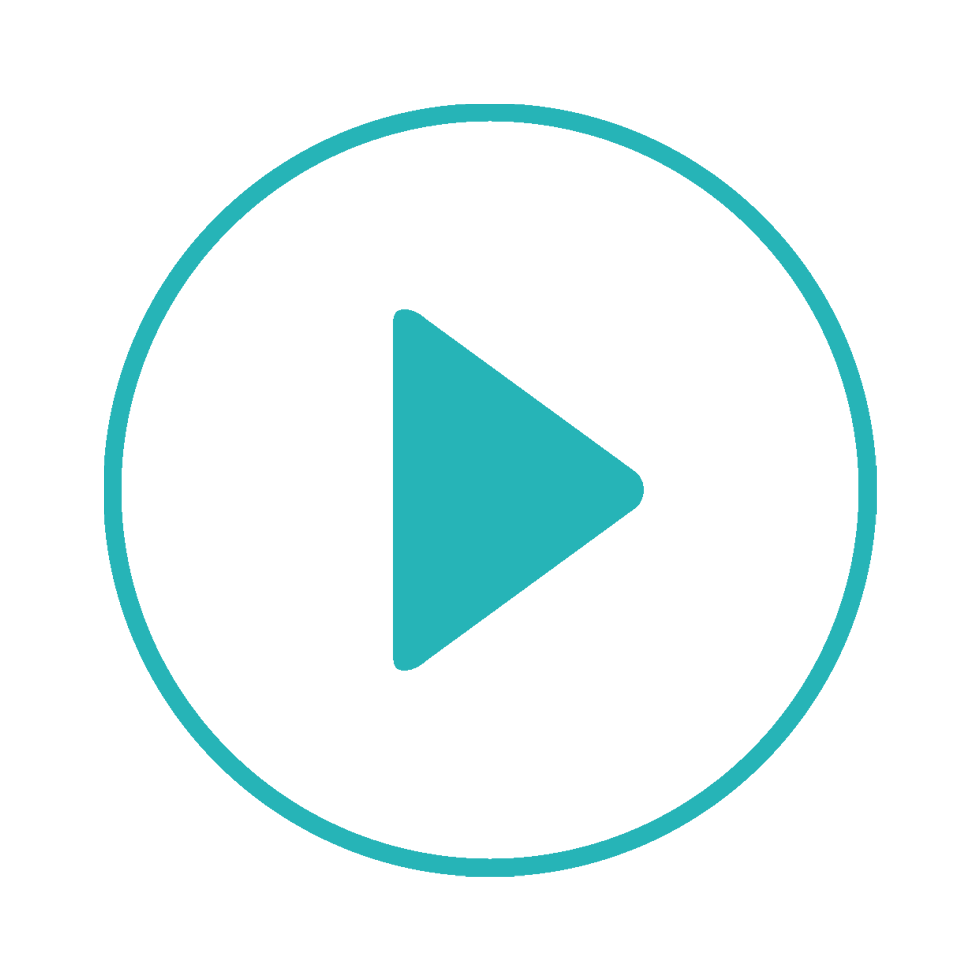
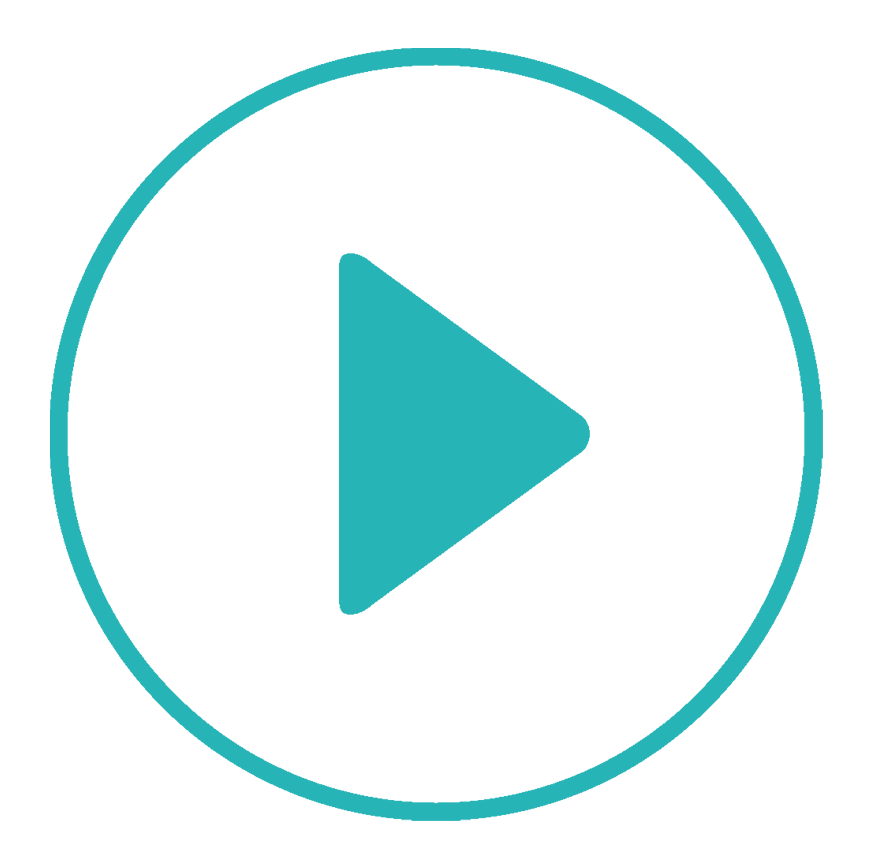
did animation

Changed region(s): [[0.031, 0.0311, 0.9621, 0.9643], [0.3724, 0.28, 0.6828, 0.7154]]

diff --git a/src/style/elements/_btn.scss b/src/style/elements/_btn.scss
@@ -1,0 +1,89 @@
+.bg-extra-dark-gray {
+  background-color: #fff;
+}
+
+.opacity-7 {
+  opacity: 0.7;
+}
+
+.video-icon-box > span {
+  display: inline-flex;
+  flex-flow: row wrap;
+  align-items: center;
+  justify-content: center;
+}
+
+.video-icon-box .video-icon {
+  position: relative;
+  display: inline-flex;
+  align-items: center;
+  justify-content: center;
+  border-radius: 50%;
+}
+
+.video-icon {
+  background-image: url('../img/video-btn.png');
+  background-repeat: no-repeat;
+  background-position: center;
+  background-size: contain;
+  background-color: #fff;
+}
+.video-icon .video-icon-sonar {
+  position: absolute;
+  width: 100%;
+  height: 100%;
+  border-radius: 50%;
+  top: 0;
+  left: 0;
+  z-index: -10;
+  animation: video-icon-sonar 2s linear infinite;
+}
+
+.video-icon .video-icon-sonar .video-icon-sonar-bfr {
+  position: absolute;
+  border-radius: 50%;
+  content: '';
+  top: -25px;
+  left: -25px;
+  z-index: -100;
+}
+
+.video-icon .video-icon-sonar .video-icon-sonar-afr {
+  position: absolute;
+  border-radius: 50%;
+  content: '';
+  top: -10px;
+  left: -10px;
+  z-index: -50;
+}
+
+
+.video-icon-large .video-icon {
+  width: 75px;
+  height: 75px;
+  font-size: 26px;
+}
+
+.video-icon-large .video-icon .video-icon-sonar .video-icon-sonar-bfr {
+  width: 125px;
+  height: 125px;
+}
+
+.video-icon-large .video-icon .video-icon-sonar .video-icon-sonar-afr {
+  width: 95px;
+  height: 95px;
+}
+
+@keyframes video-icon-sonar {
+  0% {
+    opacity: 1;
+    -webkit-transform: scale(0.1);
+    transform: scale(0.1);
+  }
+
+  100% {
+    opacity: 0;
+    -webkit-transform: scale(1.10);
+    transform: scale(1.10);
+  }
+}

diff --git a/src/style/sections/_video.scss b/src/style/sections/_video.scss
@@ -8,6 +8,7 @@
   display: flex;
   flex-direction: column-reverse;
   margin-bottom: 64px;
+  transition: .5s;
 
   @include min(768) {
     flex-direction: row;
@@ -40,23 +41,15 @@
 
 .video__btn {
   position: absolute;
+  z-index: 1;
   top: 0;
   right: 0;
   bottom: 0;
   left: 0;
-  width: 100px;
-  height: 100px;
+  width: 75px;
+  height: 75px;
   margin: auto;
-  transition: .5s;
   border-radius: 50%;
-  background-image: url('../img/video-btn.png');
-  background-repeat: no-repeat;
-  background-position: center;
-  background-size: contain;
-
-  &:hover {
-    opacity: .8;
-  }
 }
 
 .video__descr {
@@ -84,6 +77,7 @@
 }
 
 .video__title {
+  animation-delay: .35s;
   color: $highlight;
 
   @include min(768) {
@@ -92,6 +86,8 @@
 }
 
 .video__subtitle {
+  animation-delay: .5s;
+
   @include min(768) {
     text-align: left;
   }
@@ -106,5 +102,6 @@
 
   p {
     display: block;
+    animation-delay: .7s;
   }
 }

diff --git a/src/js/modules/animateCss.js b/src/js/modules/animateCss.js
@@ -1,13 +1,15 @@
 module.exports = function() {
 
   // begin Animate CSS + WayPoints javaScript Plugin
-  //РАБОТАЕТ ТОЛЬКО С JQUERY < 3.0.0 !!!!!!!!!!!!!!!!!!
-
-  $(".services__item").waypoint(function() {
-    $(this).addClass("animated zoomInUp");
-  }, {
-    offset: "100%"
-  });
+  $('.fadeInLeft').waypoint(function () {
+    $(this).addClass("animate__fadeInLeft");
+  }, {offset: "90%"});
+  $('.fadeInRight').waypoint(function () {
+    $(this).addClass("animate__fadeInRight");
+  }, {offset: "90%"});
+  $('.fadeInUp').waypoint(function () {
+    $(this).addClass("animate__fadeInUp");
+  }, {offset: "100%"});
 
   // end Animate CSS + WayPoints javaScript Plugin
 

diff --git a/src/js/app.js b/src/js/app.js
@@ -1,15 +1,8 @@
 $(function() {
-
   // begin SVG for IE
   require('./modules/svg4everybody')();
   require('./modules/ui')();
-
-  // begin Scroll2Ancor
-  // require('./modules/scroll2ancor')();
-
-  // begin Animate.css
-  //РАБОТАЕТ ТОЛЬКО С JQUERY < 3.0.0 !!!!!!!!!!!!!!!!!!
-  // require('./modules/waypoints')();
-  // require('./modules/animateCss')();
-
+  require('./modules/scroll2ancor')();
+  require('./modules/waypoints')();
+  require('./modules/animateCss')();
 });

diff --git a/src/style/sections/_contacts.scss b/src/style/sections/_contacts.scss
@@ -12,13 +12,13 @@
   justify-content: space-between;
   align-items: center;
   padding-top: 16px;
+
   @include min(768) {
     padding-top: 32px;
   }
-
   @include min(1024) {
-  padding-top: 64px;
     flex-direction: row;
+    padding-top: 64px;
   }
 }
 
@@ -37,9 +37,9 @@
 
 .contacts__form-section {
   width: 100%;
-  @include min(768) {
-  width: calc(50% - 8px);
 
+  @include min(768) {
+    width: calc(50% - 8px);
   }
 }
 

diff --git a/src/style/sections/_top.scss b/src/style/sections/_top.scss
@@ -31,6 +31,8 @@
 }
 
 .top__title {
+  opacity: 0;
+  transition: .5s;
   line-height: 1;
   margin-bottom: 48px;
   text-align: center;
@@ -43,10 +45,15 @@
 .top__subtitle {
   line-height: 1;
   display: block;
+  animation-delay: .5s;
   margin-bottom: 48px;
   text-align: center;
   text-transform: uppercase;
   color: #fff;
 
   @include responsive-font(30, 18);
+}
+
+.top__button {
+  animation-delay: .7s;
 }

diff --git a/gulp/paths/css.foundation.js b/gulp/paths/css.foundation.js
@@ -3,6 +3,5 @@
 module.exports = [
   './node_modules/normalize.css/normalize.css',
   './src/vendors/jquery-ui/jquery-ui.min.css',
-  './node_modules/animate.css/animate.css',
   './node_modules/@fancyapps/fancybox/dist/jquery.fancybox.css'
 ];

diff --git a/src/style/core/_base.scss b/src/style/core/_base.scss
@@ -238,3 +238,9 @@ svg {
 
   @include responsive-font(30, 18);
 }
+
+.fadeInLeft,
+.fadeInRight,
+.fadeInUp {
+  opacity: 0;
+}

diff --git a/src/style/app.scss b/src/style/app.scss
@@ -6,6 +6,7 @@
 
 //elements
 @import 'elements/burger';
+@import 'elements/btn';
 
 //section
 @import 'sections/header';
